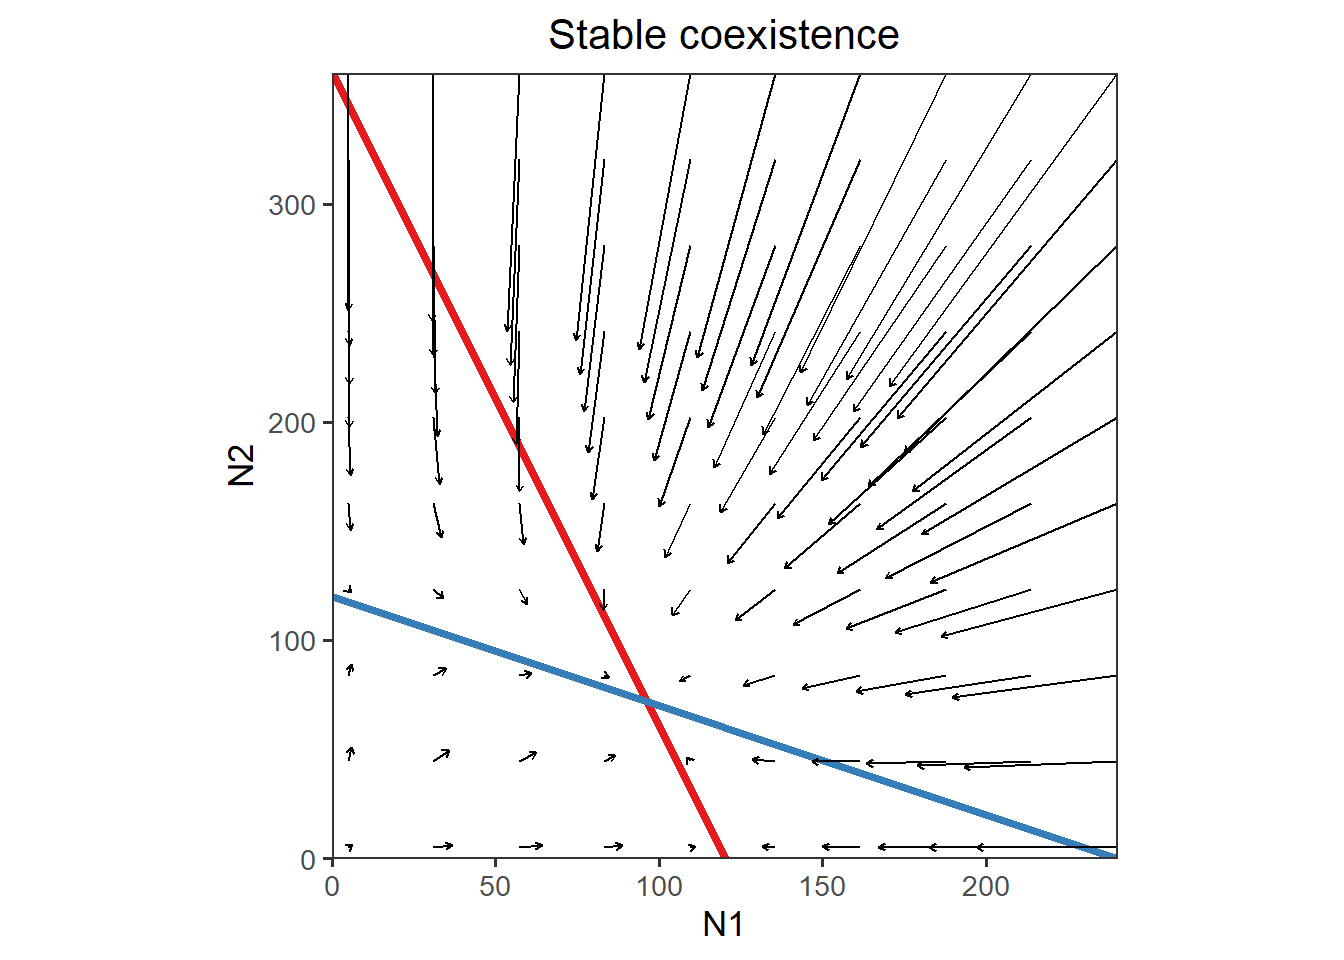
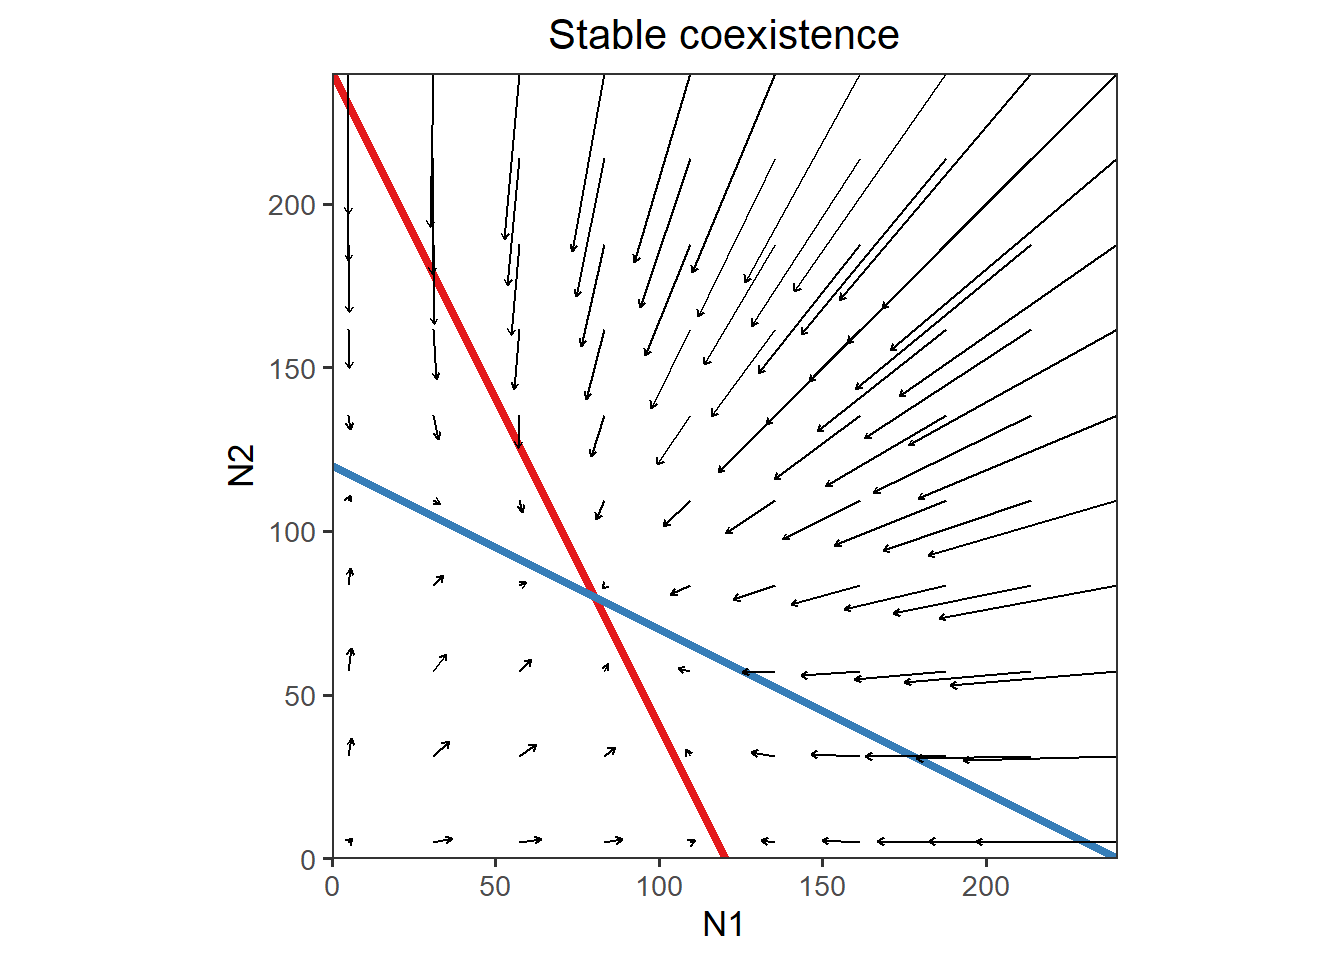
change parms set

diff --git a/_book/week-8---lotka-volterra-competition-model---population-dynamics.html b/_book/week-8---lotka-volterra-competition-model---population-dynamics.html
@@ -298,7 +298,7 @@ code span.wa { color: #60a0b0; font-weight: bold; font-style: italic; } /* Warni
 <span id="cb64-49"><a href="week-8---lotka-volterra-competition-model---population-dynamics.html#cb64-49" tabindex="-1"></a>  }</span></code></pre></div>
 <p>Plot the population dynamics under different parameter sets.</p>
 <div class="sourceCode" id="cb65"><pre class="sourceCode r"><code class="sourceCode r"><span id="cb65-1"><a href="week-8---lotka-volterra-competition-model---population-dynamics.html#cb65-1" tabindex="-1"></a>  <span class="fu">phase_plane</span>(<span class="at">r1 =</span> <span class="fl">1.2</span>, <span class="at">r2 =</span> <span class="fl">1.2</span>, <span class="at">a11 =</span> <span class="dv">1</span><span class="sc">/</span><span class="dv">100</span>, </span>
-<span id="cb65-2"><a href="week-8---lotka-volterra-competition-model---population-dynamics.html#cb65-2" tabindex="-1"></a>              <span class="at">a21 =</span> <span class="dv">1</span><span class="sc">/</span><span class="dv">200</span>, <span class="at">a22 =</span> <span class="dv">1</span><span class="sc">/</span><span class="dv">100</span>, <span class="at">a12 =</span> <span class="dv">1</span><span class="sc">/</span><span class="dv">300</span>, </span>
+<span id="cb65-2"><a href="week-8---lotka-volterra-competition-model---population-dynamics.html#cb65-2" tabindex="-1"></a>              <span class="at">a21 =</span> <span class="dv">1</span><span class="sc">/</span><span class="dv">200</span>, <span class="at">a22 =</span> <span class="dv">1</span><span class="sc">/</span><span class="dv">100</span>, <span class="at">a12 =</span> <span class="dv">1</span><span class="sc">/</span><span class="dv">200</span>, </span>
 <span id="cb65-3"><a href="week-8---lotka-volterra-competition-model---population-dynamics.html#cb65-3" tabindex="-1"></a>              <span class="at">t =</span> <span class="fl">0.2</span>, <span class="at">title =</span> <span class="st">&quot;Stable coexistence&quot;</span>)</span></code></pre></div>
 <p><img src="bookdown-demo_files/figure-html/unnamed-chunk-36-1.png" width="672" /></p>
 <div class="sourceCode" id="cb66"><pre class="sourceCode r"><code class="sourceCode r"><span id="cb66-1"><a href="week-8---lotka-volterra-competition-model---population-dynamics.html#cb66-1" tabindex="-1"></a>  <span class="fu">phase_plane</span>(<span class="at">r1 =</span> <span class="fl">1.2</span>, <span class="at">r2 =</span> <span class="fl">1.2</span>, </span>

diff --git a/week-8---lotka-volterra-competition-model---population-dynamics.html b/week-8---lotka-volterra-competition-model---population-dynamics.html
@@ -298,7 +298,7 @@ code span.wa { color: #60a0b0; font-weight: bold; font-style: italic; } /* Warni
 <span id="cb64-49"><a href="week-8---lotka-volterra-competition-model---population-dynamics.html#cb64-49" tabindex="-1"></a>  }</span></code></pre></div>
 <p>Plot the population dynamics under different parameter sets.</p>
 <div class="sourceCode" id="cb65"><pre class="sourceCode r"><code class="sourceCode r"><span id="cb65-1"><a href="week-8---lotka-volterra-competition-model---population-dynamics.html#cb65-1" tabindex="-1"></a>  <span class="fu">phase_plane</span>(<span class="at">r1 =</span> <span class="fl">1.2</span>, <span class="at">r2 =</span> <span class="fl">1.2</span>, <span class="at">a11 =</span> <span class="dv">1</span><span class="sc">/</span><span class="dv">100</span>, </span>
-<span id="cb65-2"><a href="week-8---lotka-volterra-competition-model---population-dynamics.html#cb65-2" tabindex="-1"></a>              <span class="at">a21 =</span> <span class="dv">1</span><span class="sc">/</span><span class="dv">200</span>, <span class="at">a22 =</span> <span class="dv">1</span><span class="sc">/</span><span class="dv">100</span>, <span class="at">a12 =</span> <span class="dv">1</span><span class="sc">/</span><span class="dv">300</span>, </span>
+<span id="cb65-2"><a href="week-8---lotka-volterra-competition-model---population-dynamics.html#cb65-2" tabindex="-1"></a>              <span class="at">a21 =</span> <span class="dv">1</span><span class="sc">/</span><span class="dv">200</span>, <span class="at">a22 =</span> <span class="dv">1</span><span class="sc">/</span><span class="dv">100</span>, <span class="at">a12 =</span> <span class="dv">1</span><span class="sc">/</span><span class="dv">200</span>, </span>
 <span id="cb65-3"><a href="week-8---lotka-volterra-competition-model---population-dynamics.html#cb65-3" tabindex="-1"></a>              <span class="at">t =</span> <span class="fl">0.2</span>, <span class="at">title =</span> <span class="st">&quot;Stable coexistence&quot;</span>)</span></code></pre></div>
 <p><img src="bookdown-demo_files/figure-html/unnamed-chunk-36-1.png" width="672" /></p>
 <div class="sourceCode" id="cb66"><pre class="sourceCode r"><code class="sourceCode r"><span id="cb66-1"><a href="week-8---lotka-volterra-competition-model---population-dynamics.html#cb66-1" tabindex="-1"></a>  <span class="fu">phase_plane</span>(<span class="at">r1 =</span> <span class="fl">1.2</span>, <span class="at">r2 =</span> <span class="fl">1.2</span>, </span>
